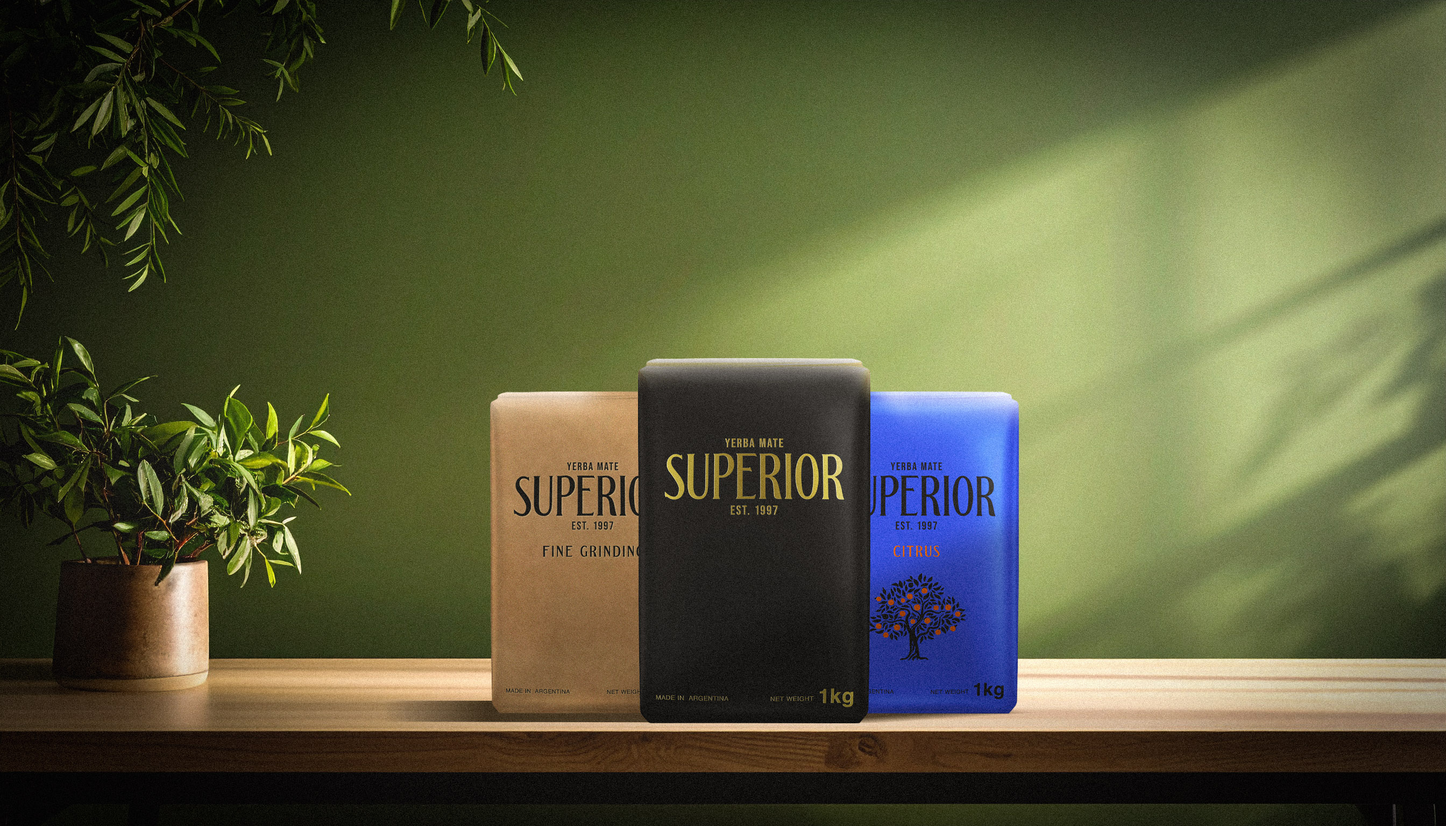
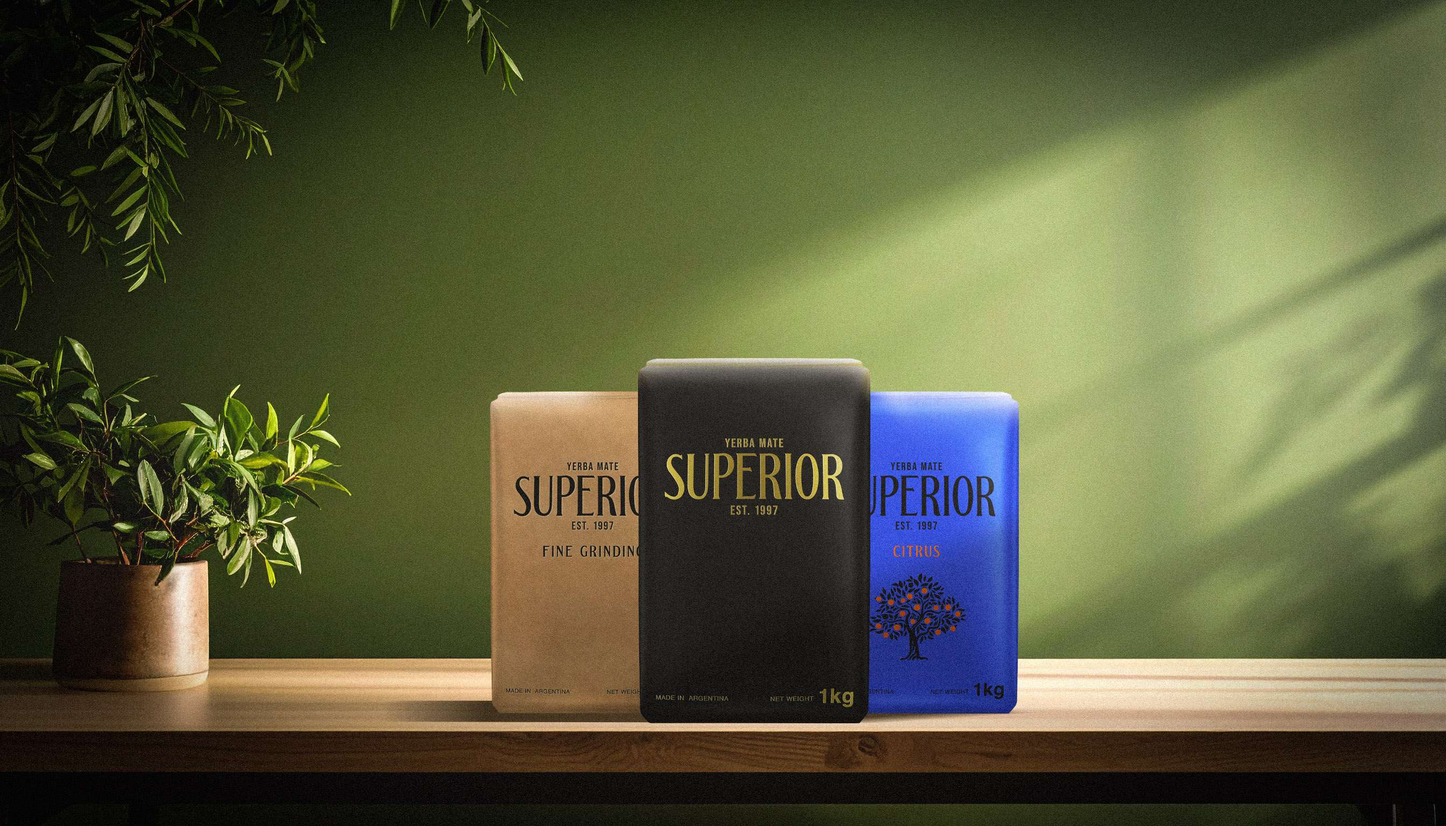
img optimization

diff --git a/index.html b/index.html
@@ -65,7 +65,7 @@
                 <div class="post">
                     <p class="flair_e">Design exercise</p>
                     <h3>Bates Center Homepage</h3>
-                    <img class="postimg" src="img/post4.png">
+                    <img class="postimg" src="img/post4.jpg">
                     <p>Bates Center is a plastic surgery center focused on refined, patient-first care, combining clinical excellence with warmth, trust, clarity, and a modern digital experience.</p>
                 </div>
             </a>
